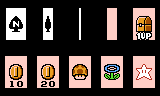
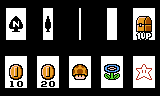
Add patterns and different background colors

diff --git a/src/components/Grid.tsx b/src/components/Grid.tsx
@@ -6,22 +6,82 @@ import { playMatchCorrectSound, playMatchIncorrectSound, playSelectSound } from 
 import CardTile from './CardTile'
 
 const patterns = [
-  [
-    CardType.Mushroom, CardType.Flower, CardType.Coins20, CardType.Mushroom, CardType.Coins10, CardType.Star,
-    CardType.Flower, CardType.OneUp, CardType.Mushroom, CardType.Coins10, CardType.OneUp, CardType.Coins20,
-    CardType.Star, CardType.Flower, CardType.Star, CardType.Mushroom, CardType.Flower, CardType.Star
-  ]
+  {
+    cardBackgroundColor: '#ffcec6',
+    cards: [
+      CardType.Mushroom, CardType.Flower, CardType.Coins20, CardType.Mushroom, CardType.Coins10, CardType.Star,
+      CardType.Flower, CardType.OneUp, CardType.Mushroom, CardType.Coins10, CardType.OneUp, CardType.Coins20,
+      CardType.Star, CardType.Flower, CardType.Star, CardType.Mushroom, CardType.Flower, CardType.Star
+    ]
+  },
+  {
+    cardBackgroundColor: "#88ccee",
+    cards: [
+      CardType.Mushroom, CardType.Flower, CardType.Coins20, CardType.Flower, CardType.Coins10, CardType.Star,
+      CardType.Coins20, CardType.OneUp, CardType.Mushroom, CardType.Coins10, CardType.OneUp, CardType.Flower,
+      CardType.Star, CardType.Mushroom, CardType.Star, CardType.Mushroom, CardType.Flower, CardType.Star
+    ]
+  },
+  {
+    cardBackgroundColor: "#332288",
+    cards: [
+      CardType.Mushroom, CardType.Flower, CardType.OneUp, CardType.Flower, CardType.Star, CardType.Star,
+      CardType.Coins20, CardType.Star, CardType.Mushroom, CardType.Coins10, CardType.OneUp, CardType.Flower,
+      CardType.Coins20, CardType.Mushroom, CardType.Coins10, CardType.Mushroom, CardType.Flower, CardType.Star
+    ]
+  },
+  {
+    cardBackgroundColor: "#117733",
+    cards: [
+      CardType.Flower, CardType.Coins10, CardType.OneUp, CardType.Flower, CardType.OneUp, CardType.Mushroom,
+      CardType.Star, CardType.Mushroom, CardType.Coins20, CardType.Star, CardType.Mushroom, CardType.Coins10,
+      CardType.Star, CardType.Flower, CardType.Coins20, CardType.Mushroom, CardType.Flower, CardType.Star
+    ]
+  },
+  {
+    cardBackgroundColor: "#44aa99",
+    cards: [
+      CardType.Flower, CardType.Coins20, CardType.Mushroom, CardType.Star, CardType.OneUp, CardType.Flower,
+      CardType.OneUp, CardType.Flower, CardType.Coins10, CardType.Mushroom, CardType.Coins20, CardType.Star,
+      CardType.Mushroom, CardType.Coins10, CardType.Star, CardType.Mushroom, CardType.Flower, CardType.Star
+    ]
+  },
+  {
+    cardBackgroundColor: "#ddcc77",
+    cards: [
+      CardType.Flower, CardType.Star, CardType.OneUp, CardType.Flower, CardType.Coins20, CardType.Mushroom,
+      CardType.Coins10, CardType.Mushroom, CardType.Coins20, CardType.OneUp, CardType.Mushroom, CardType.Coins10,
+      CardType.Star, CardType.Flower, CardType.Star, CardType.Mushroom, CardType.Flower, CardType.Star
+    ]
+  },
+  {
+    cardBackgroundColor: "#cc6677",
+    cards: [
+      CardType.Flower, CardType.Star, CardType.OneUp, CardType.Flower, CardType.OneUp, CardType.Mushroom,
+      CardType.Coins10, CardType.Mushroom, CardType.Flower, CardType.Star, CardType.Mushroom, CardType.Coins10,
+      CardType.Star, CardType.Coins20, CardType.Coins20, CardType.Mushroom, CardType.Flower, CardType.Star
+    ]
+  },
+  {
+    cardBackgroundColor: "#882255",
+    cards: [
+      CardType.OneUp, CardType.Mushroom, CardType.Coins10, CardType.Mushroom, CardType.Flower, CardType.Star,
+      CardType.Mushroom, CardType.Coins10, CardType.Star, CardType.Coins20, CardType.Coins20, CardType.Flower,
+      CardType.Star, CardType.OneUp, CardType.Flower, CardType.Mushroom, CardType.Flower, CardType.Star
+    ]
+  },
 ]
 
 const cards1 = (() => {
   const cards = []
-  for (let i = 0; i < patterns[0].length; i++) {
+  for (let i = 0; i < patterns[0].cards.length; i++) {
     const card: Card = {
       key: i,
-      cardType: patterns[0][i],
+      cardType: patterns[0].cards[i],
       visible: false,
       matched: false,
-      flippingBack: false
+      flippingBack: false,
+      backgroundColor: patterns[0].cardBackgroundColor
     }
     cards[i] = card
   }

diff --git a/src/components/CardTile.tsx b/src/components/CardTile.tsx
@@ -55,6 +55,7 @@ const CardTile: React.FC<Props> = ({ card, flipCardHandler  }) => {
       <img
         draggable="false"
         className={`card-tile ${animationClass}`}
+        style={{ backgroundColor: card.backgroundColor }}
         src={cardsUrl}
       />
     </div>

diff --git a/src/domain/Card.ts b/src/domain/Card.ts
@@ -5,5 +5,6 @@ export interface Card {
   cardType: CardType,
   visible: boolean,
   matched: boolean,
-  flippingBack: boolean
+  flippingBack: boolean,
+  backgroundColor: string
 }
